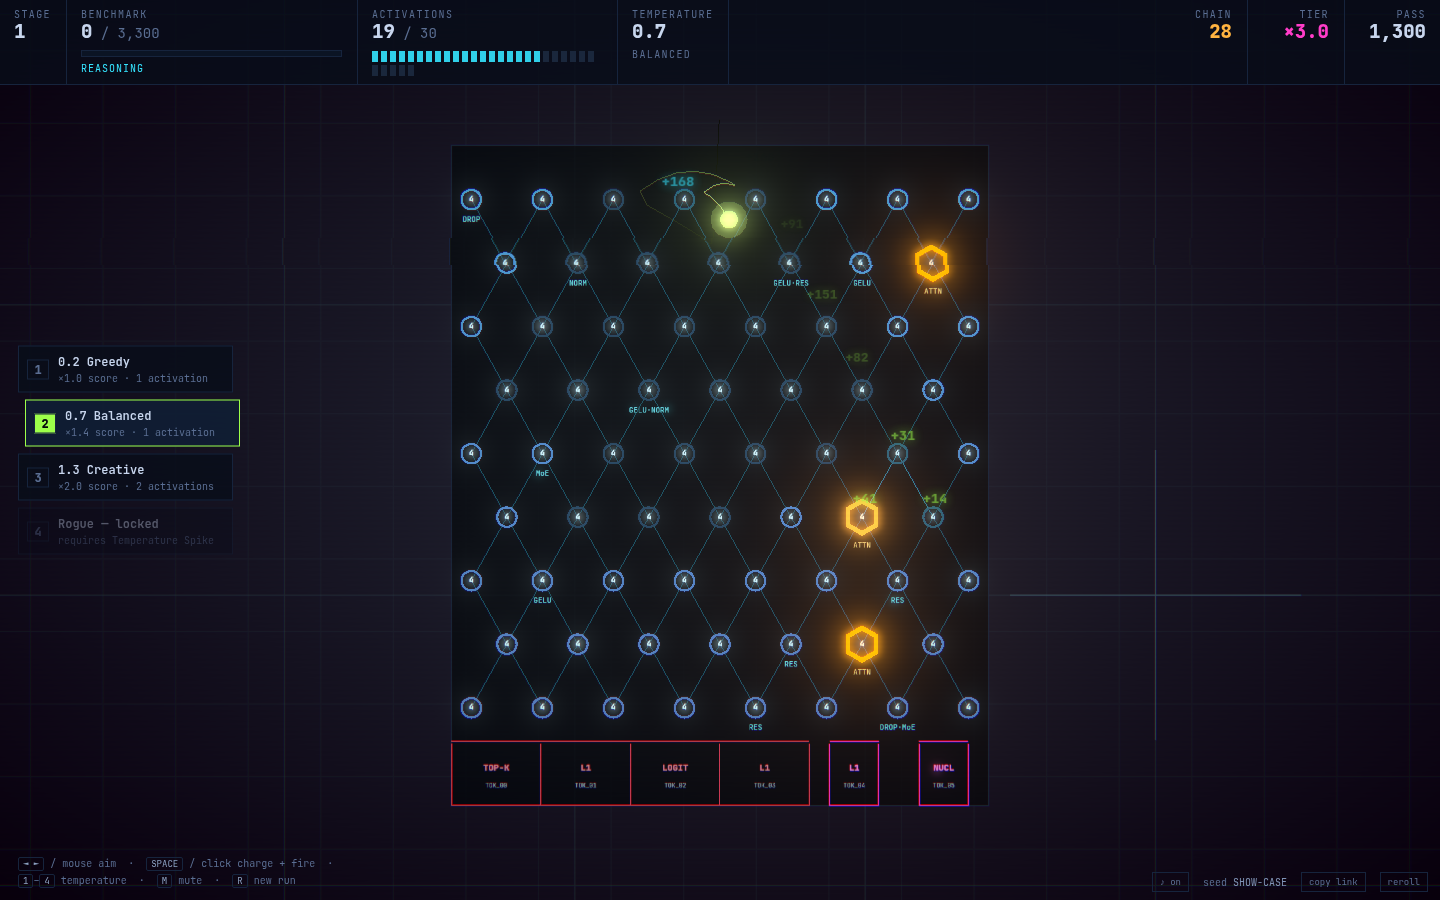
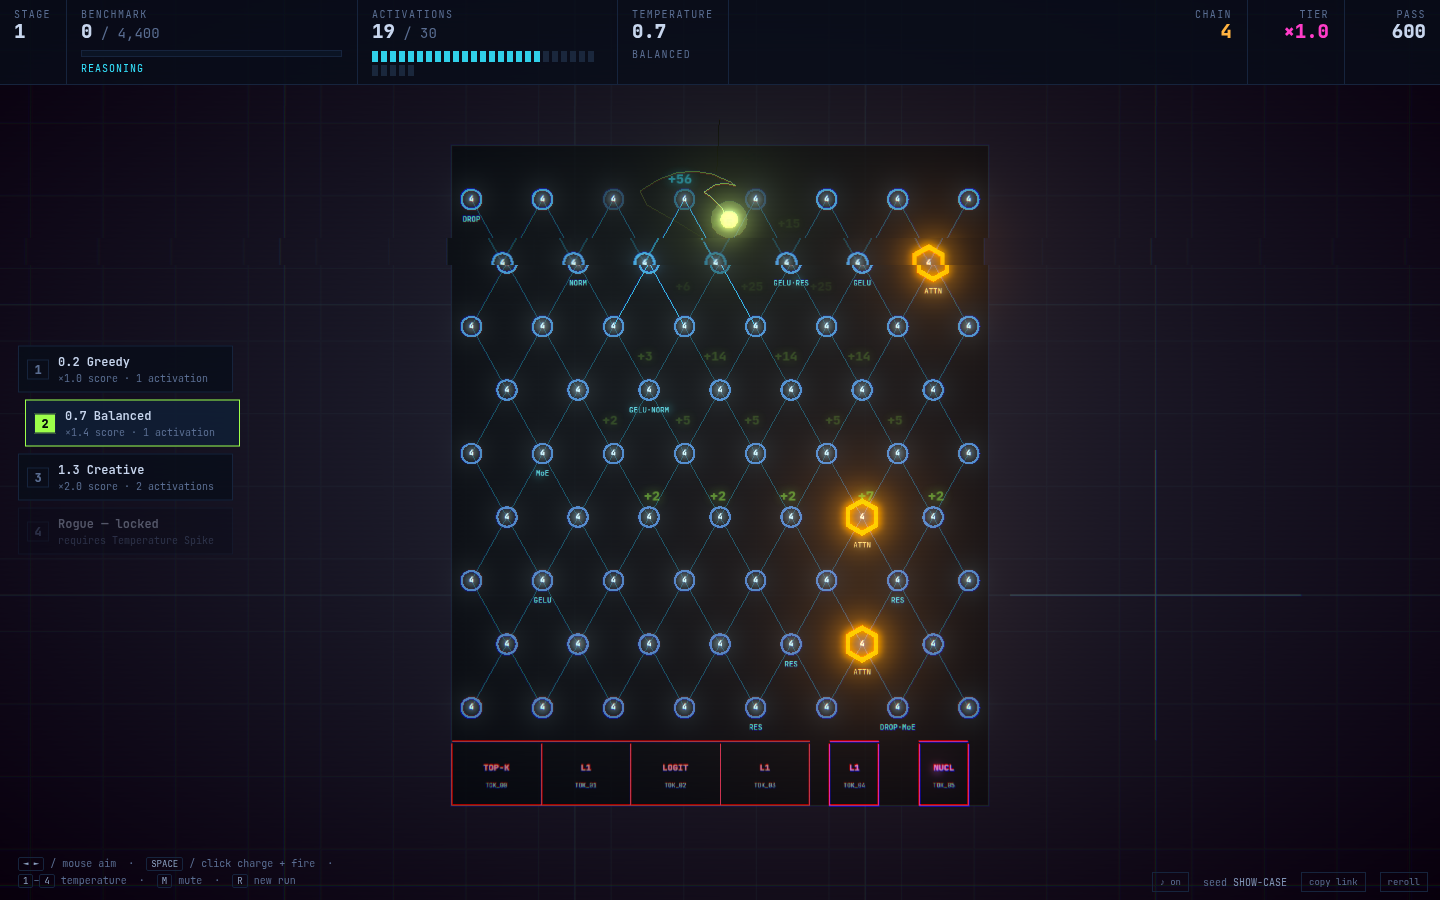
Signal is a bonus, not a consumption
Signal activations marked nodes as struck, exactly like a ball contact. The
propagation sweep showed the cost: contacts per pass fell from 10.0 to 4.3 as
retention rose, because the ball was being starved by its own network. The
first contact ate most of the board and every later contact found it spent.

Signal now:

- does not consume the node. A weight lit by signal can still be hit by the
  ball for full contact value, and lit again by a later contact's wave.
- does not advance the multiplier tier. The ladder stays a measure of how
  well you AIMED; signal measures how well your network is WIRED. Keeping
  them separate stops a good build from erasing the skill component.
- pulses rather than dims in the render layer. A dimmed node reads as
  "already used", which would tell the player the opposite of the rule.

Termination never depended on the consumption rule: propagate() carries its
own per-wave visited set and the edge graph is a DAG by construction. The
wave also now walks THROUGH nodes that paid nothing (Dropout refused, MoE
still asleep) rather than stopping at them.

Added SIGNAL.bonusShare to keep the bonus a bonus now that every contact
fires a full wave rather than one wave per pass.

Measured after: contacts flat at 10.1 across all retention values, signal
activations ~66 per pass at 0.45, 8.9 passes to clear against a target of 8.

Run-end sheet now reports weights struck and signal activations separately,
since they are the aim and wiring halves of a score.

diff --git a/src/sim/scoring.ts b/src/sim/scoring.ts
@@ -48,6 +48,8 @@ export class Pass {
   spikeApplied = false
   /** Nodes struck per layer, for Sparse MoE's wake condition. */
   readonly struckByLayer = new Map<number, number>()
+  /** Nodes lit by signal this pass. Bonus only — see the note on scoreSignal. */
+  signalCount = 0
   /** True once any node has scored — Embedding keys off this. */
   anyStruck = false
   /** Set by an EOS bucket; the caller must stop the pass. */
@@ -88,6 +90,7 @@ export class Pass {
     this.eventCount = 0
     this.spikeApplied = false
     this.anyStruck = false
+    this.signalCount = 0
     this.ended = false
     this.money = 0
     this.echoes.length = 0
@@ -218,8 +221,24 @@ export function scorePin(
 }
 
 /**
- * Score a node reached by signal rather than contact. `power` is the fraction
- * of the originating strike still carried at this hop.
+ * Score a node reached by signal rather than contact.
+ *
+ * Signal is a BONUS, and that word carries real mechanical weight:
+ *
+ *   - It does NOT consume the node. A weight lit by signal can still be hit
+ *     by the ball afterwards for its full contact value, and can be lit again
+ *     by a later contact's wave. Consuming nodes made the first contact of a
+ *     pass eat most of the board, which is why measured contacts fell from
+ *     10 to 4.8 — the ball was being starved by its own network.
+ *   - It does NOT advance the multiplier tier. The ladder stays a measure of
+ *     how well you AIMED; signal is a measure of how well your network is
+ *     WIRED. Keeping them separate is what stops a good build from erasing
+ *     the skill component.
+ *
+ * Termination does not depend on any of this: `propagate` carries its own
+ * per-wave visited set, and the edge graph is a DAG by construction.
+ *
+ * `power` is the fraction of the originating strike still carried at this hop.
  */
 export function scoreSignal(
   pass: Pass,
@@ -228,26 +247,35 @@ export function scoreSignal(
   hop: number,
   ctx: ScoringContext,
 ): ScoreEvent | null {
-  if (pass.struck.has(node.id)) return null
-
-  const situational = situationalMult(node, pass, ctx)
-  registerStrike(pass, node)
-  if (situational === null) {
-    pass.anyStruck = true
-    return { points: 0, x: node.x, y: node.y, kind: 'dud', tierMult: pass.tierMult(ctx.mods), hop, nodeId: node.id }
+  // Dropout still gets to refuse — a flaky weight is flaky however it fires.
+  if (node.transforms.includes('dropout') && ctx.rng.next() < TRANSFORMS.dropoutChance) {
+    return null
   }
+
+  let situational = 1
+  if (node.transforms.includes('dropout')) situational *= TRANSFORMS.dropoutMult
+  if (node.transforms.includes('sparse-moe')) {
+    // MoE still reads CONTACT counts: it wakes when the layer is genuinely
+    // being worked, not when its own wave brushes past.
+    const inLayer = pass.struckByLayer.get(node.layer) ?? 0
+    if (inLayer < TRANSFORMS.moeThreshold) return null
+    situational *= TRANSFORMS.moeMult
+  }
+  // Embedding is deliberately absent: it rewards the FIRST weight the ball
+  // touches, and a signal wave never touches anything.
 
   const { mods } = ctx
   const tierMult = pass.tierMult(mods)
   const base = nodeBaseValue(node, ctx)
   const points = Math.round(
-    base * situational * power * mods.pinValueMult * tierMult *
+    base * situational * power * SIGNAL_BONUS_SHARE * mods.pinValueMult * tierMult *
       ctx.tempScoreMult * mods.scoreMult,
   )
+  if (points <= 0) return null
 
   pass.score += points
   pass.eventCount++
-  pass.anyStruck = true
+  pass.signalCount++
 
   if (node.transforms.includes('checkpoint')) {
     pass.echoes.push({
@@ -368,5 +396,7 @@ function applyBucketEcho(pass: Pass, pocket: PocketDef, points: number): void {
 export function returnsToken(pocket: PocketDef): boolean {
   return pocket.transform === 'beam-search'
 }
+
+const SIGNAL_BONUS_SHARE = SIGNAL.bonusShare
 
 export { SIGNAL }

diff --git a/src/sim/propagation.ts b/src/sim/propagation.ts
@@ -118,15 +118,21 @@ export function propagate(
         const ei = graph.edgeIndex.get(`${f.id}:${toId}`)
         if (ei !== undefined) out.litEdges.push({ index: ei, hop: f.hop })
 
-        // Score before marking seen, so a node already struck by contact
-        // still blocks the wave without being paid twice.
-        const ev = scoreSignal(pass, target, outgoing, f.hop + 1, ctx)
+        // `seenThisWave` is the ONLY thing bounding this traversal, and it is
+        // per-wave rather than per-pass. Signal no longer consumes nodes, so
+        // a node already lit by an earlier contact's wave is lit again by
+        // this one — that is the bonus working as intended. The wave still
+        // cannot revisit within itself, and the graph is a DAG, so it
+        // terminates regardless.
         seenThisWave.add(toId)
-        if (!ev) continue
+        const ev = scoreSignal(pass, target, outgoing, f.hop + 1, ctx)
 
+        // Keep walking even when the node paid nothing (Dropout refused, or
+        // MoE is still asleep) — the signal passes THROUGH it either way.
+        next.push({ id: toId, power: outgoing, hop: f.hop + 1 })
+        if (!ev) continue
         out.events.push(ev)
         out.reached++
-        next.push({ id: toId, power: outgoing, hop: f.hop + 1 })
       }
     }
 

diff --git a/src/config/balance.ts b/src/config/balance.ts
@@ -166,6 +166,13 @@ export const SIGNAL = {
   geluBoost: 2.0,
   /** An attention head fires every downward edge rather than the usual two. */
   headFiresAllEdges: true,
+  /**
+   * Signal is a bonus laid ON TOP of contact scoring, not a replacement for
+   * it, so it is scaled down relative to a direct hit. Because signal no
+   * longer consumes nodes, EVERY contact fires a full wave — roughly 8 waves
+   * a pass instead of one — so this share is what keeps the bonus a bonus.
+   */
+  bonusShare: 0.5,
 } as const
 
 // ---------------------------------------------------------------------------
@@ -360,6 +367,9 @@ export const VISUAL = {
   glitchMax: 0.32,
   trailLength: 26,
   pinFlashSeconds: 0.42,
+  /** Signal pulses are briefer than contact flashes — they are a bonus
+   *  passing through, not a weight being consumed. */
+  signalFlashSeconds: 0.26,
   /** Wall thickness of a node ring, in world units. Thin reads as schematic. */
   ringThickness: 0.062,
   /** Edge brightness at rest, as a fraction of full. Must stay faint: 70 nodes

diff --git a/src/render/boardView.ts b/src/render/boardView.ts
@@ -377,11 +377,24 @@ export class BoardView {
     return target
   }
 
+  /** A ball contact. Consumes the weight for the pass, so it dims afterwards. */
   strike(node: NodeDef): void {
     const v = this.visuals.get(node.id)
     if (!v) return
     v.flash = VISUAL.pinFlashSeconds
     v.spent = true
+  }
+
+  /**
+   * A signal activation. Flashes but does NOT mark the weight spent, because
+   * signal is a bonus and leaves the node available for the ball. The visual
+   * has to say that: a dimmed node reads as "already used", and dimming on
+   * signal would tell the player the opposite of the rule.
+   */
+  pulse(node: NodeDef): void {
+    const v = this.visuals.get(node.id)
+    if (!v) return
+    v.flash = Math.max(v.flash, VISUAL.signalFlashSeconds)
   }
 
   /** Light an edge. Pass 2 calls this as signal travels; harmless until then. */

diff --git a/src/core/game.ts b/src/core/game.ts
@@ -348,10 +348,12 @@ export class Game {
       const hop = ev.hop ?? 1
       window.setTimeout(() => {
         const node = ev.nodeId === undefined ? undefined : this.graph?.nodes.get(ev.nodeId)
-        if (node) this.boardView.strike(node)
+        // pulse, not strike: signal does not consume the weight, and dimming
+        // it would tell the player the opposite of the rule.
+        if (node) this.boardView.pulse(node)
         if (ev.points > 0) this.emitPopup(ev)
       }, hop * VISUAL.signalHopMs)
-      this.run.totals.pinsStruck++
+      this.run.totals.signalsFired++
     }
 
     if (this.signal.reached >= 8) this.renderer.punch(0.3)

diff --git a/src/core/state.ts b/src/core/state.ts
@@ -33,6 +33,8 @@ export type Phase =
 export interface RunTotals {
   passesFired: number
   pinsStruck: number
+  /** Nodes lit by signal. Separate from pinsStruck: one is aim, one is wiring. */
+  signalsFired: number
   criticalsStruck: number
   spikesHit: number
   drains: number
@@ -45,6 +47,7 @@ function emptyTotals(): RunTotals {
   return {
     passesFired: 0,
     pinsStruck: 0,
+    signalsFired: 0,
     criticalsStruck: 0,
     spikesHit: 0,
     drains: 0,

diff --git a/src/ui/overlays.ts b/src/ui/overlays.ts
@@ -237,6 +237,7 @@ export class Overlays {
         ['Best pass', fmt(t.bestPass), 'amb'],
         ['Passes fired', `${t.passesFired}`, ''],
         ['Weights struck', fmt(t.pinsStruck), ''],
+        ['Signal activations', fmt(t.signalsFired), 'cyan'],
         ['Heads struck', `${t.criticalsStruck}`, 'amb'],
         ['Spikes hit', `${t.spikesHit}`, 'mag'],
         ['Dead neurons', `${t.drains}`, 'bad'],

diff --git a/DELIVERABLES.md b/DELIVERABLES.md
@@ -101,6 +101,28 @@ Goal: the new scoring core, tuned. Upgrades applied by debug command, not bought
   screenshots mid-propagation. The smoke test drives a whole run and is far
   too slow for visual iteration.
 
+**Pass 2 correction — signal is a bonus, not a consumption**
+
+Signal originally marked nodes as struck, exactly like a ball contact. That was
+wrong, and the measurement showed why: contacts per pass fell from 10.0 to 4.3
+as retention rose, because the ball was being starved by its own network — the
+first contact ate most of the board and every later contact found it spent.
+
+Signal now:
+
+- does **not** consume the node (it can still be hit by the ball afterwards,
+  and lit again by a later contact's wave),
+- does **not** advance the multiplier tier — the ladder stays a measure of how
+  well you AIMED, while signal measures how well your network is WIRED,
+- pulses rather than dims in the render layer, because a dimmed node reads as
+  "already used" and would tell the player the opposite of the rule.
+
+Contacts are now a flat 10.1 at every retention. Signal activations run to ~66
+per pass at 0.45 (every contact fires a wave), scaled by `SIGNAL.bonusShare`
+to keep a bonus a bonus. Pace landed at 8.9 passes to clear against a target
+of 8. Termination never depended on the consumption rule: `propagate` carries
+its own per-wave visited set and the edge graph is a DAG by construction.
+
 ## Pass 3 — Deck, shop, money
 
 Goal: the complete v2 loop.
